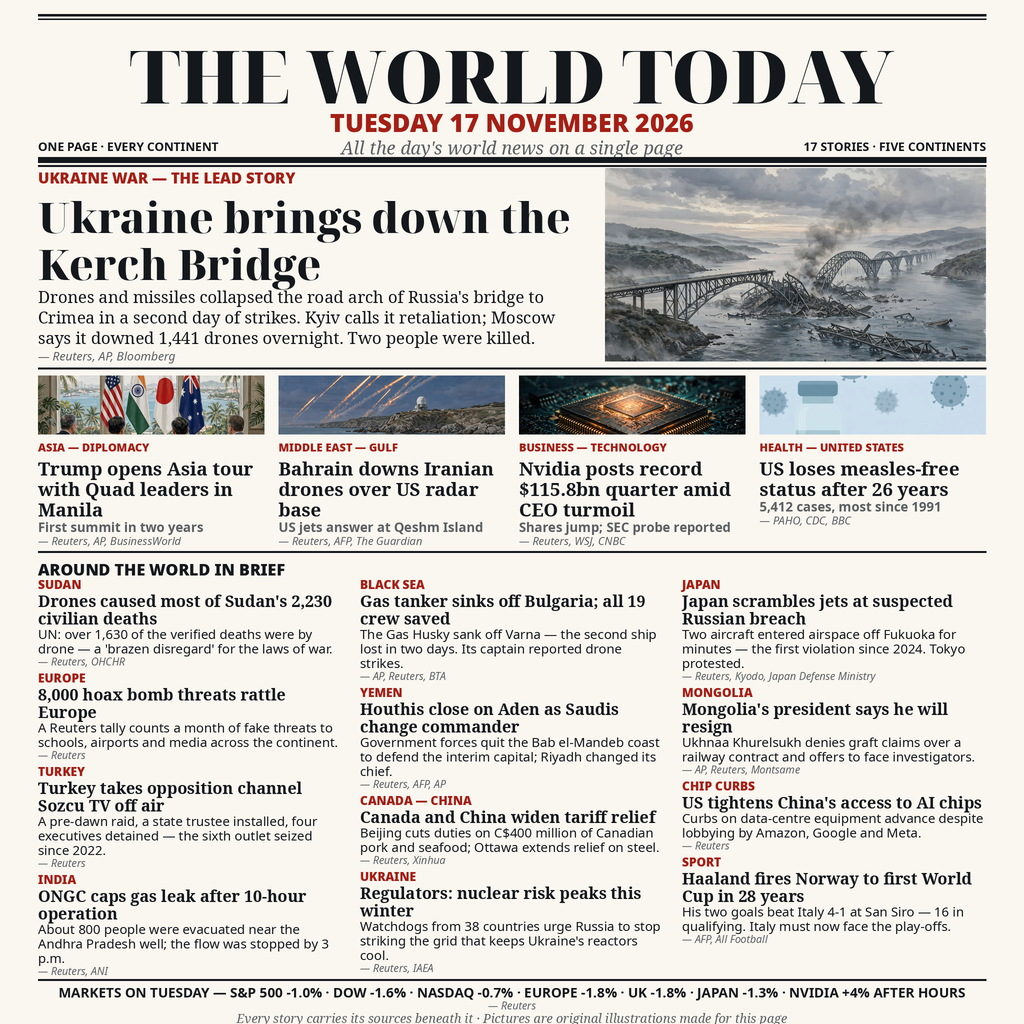
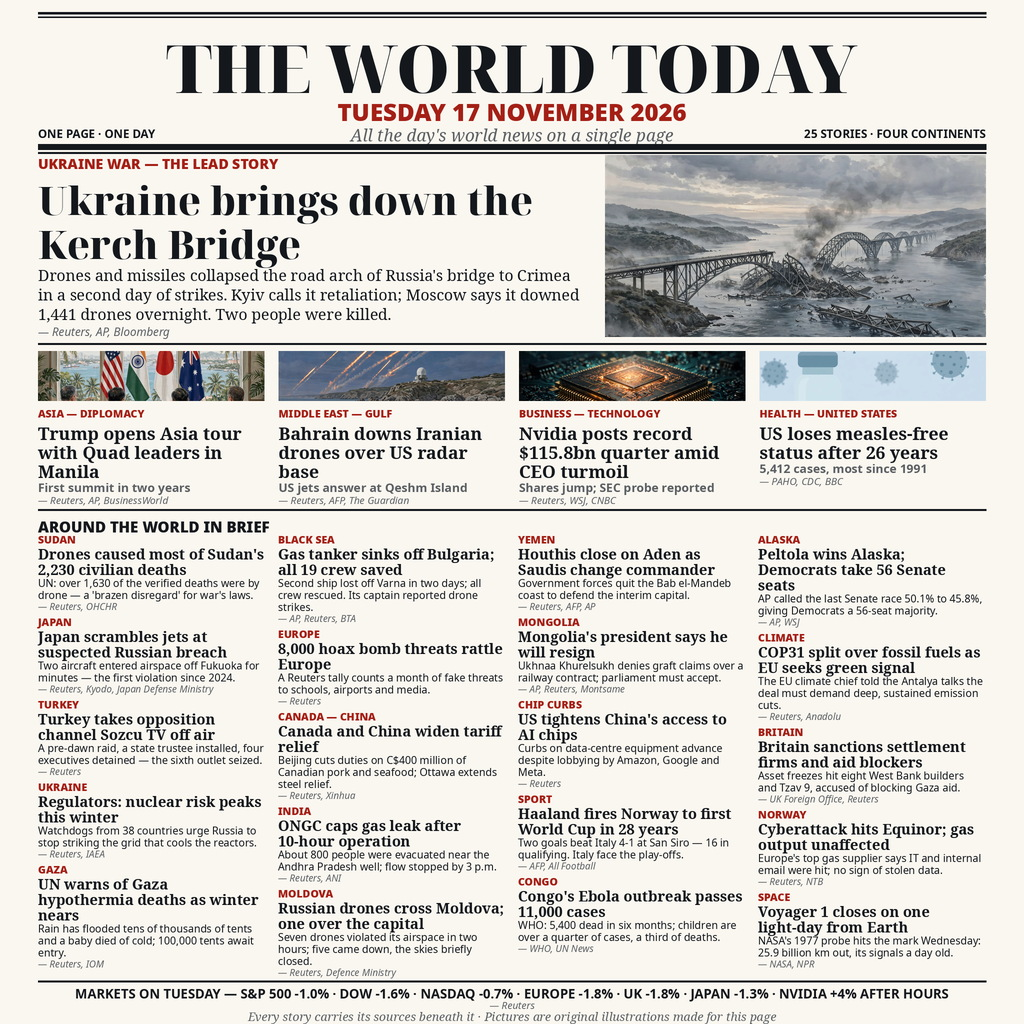
Denser edition: 25 stories — add Alaska Senate, COP31, Gaza shelter, Moldova drones, Congo Ebola, UK sanctions, Equinor, Voyager 1 briefs

diff --git a/SOURCES.md b/SOURCES.md
@@ -164,6 +164,87 @@ labelled as claims on the page, or left off it.
       to qualify for their first World Cup since 1998; he finished qualifying
       with 16 goals. Italy must go through the play-offs.
 
+## Added in the denser edition (25 stories)
+
+19. **Alaska: Peltola wins the last Senate race**
+    - Sources: Associated Press (race called Nov 17); Wall Street Journal
+      (Nov 17).
+    - Facts: The AP called Alaska's Senate race for Democrat Mary Peltola
+      over two-term Republican incumbent Dan Sullivan, 50.1% to 45.8% with
+      99% counted — the last Senate contest of the midterms to be resolved
+      and the ninth seat Democrats flipped, giving them a 56-seat Senate
+      majority. Peltola is the first Alaska Native elected to the US Senate.
+
+20. **COP31 in Antalya split over fossil fuels**
+    - Sources: Reuters (Antalya, Nov 17); Anadolu Agency (Nov 17).
+    - Facts: EU climate commissioner Wopke Hoekstra told the COP31 talks in
+      Antalya, Türkiye, that the deal must send the "strongest possible
+      signal" on the clean-energy transition and on immediate, deep and
+      sustained emission cuts. A draft deal issued by the Turkish and
+      Australian presidencies carries two rival fossil-fuel wordings —
+      "transitioning away" from 2023 and a stronger "phase out". The talks
+      are due to close on Friday (Nov 20).
+
+21. **UN warns of Gaza hypothermia deaths as winter nears**
+    - Sources: Reuters (Geneva, Nov 17); IOM and WFP joint statement
+      (Nov 17).
+    - Facts: The UN migration agency (IOM) warned of further deaths from
+      hypothermia in Gaza without more funding and shelter supplies. Heavy
+      rain has flooded tens of thousands of tents housing displaced people;
+      a 9-month-old baby died of suspected hypothermia the previous week.
+      Some 100,000 tents were waiting to enter Gaza, and IOM reported a
+      $173 million shortfall for its winter shelter programmes.
+
+22. **Russian drones cross Moldova; one over the capital**
+    - Sources: Reuters (Chisinau, Nov 17); Moldova Defence Ministry
+      (Nov 17).
+    - Facts: Seven drones violated Moldovan airspace over about two and a
+      half hours on Nov 17 during a large Russian attack on Ukraine; one
+      flew over the capital Chisinau and five came down near populated
+      areas. Moldova briefly closed its airspace. President Maia Sandu
+      pledged to press for further sanctions against Moscow; Russia denies
+      the drones were Russian.
+
+23. **Congo's Ebola outbreak passes 11,000 cases**
+    - Sources: WHO Director-General's Emergency Committee remarks (Nov 17);
+      UN News (Nov 17); Reuters analysis (Nov 17).
+    - Facts: The Bundibugyo-virus Ebola outbreak in DR Congo has more than
+      doubled in three months to over 11,000 cases and 5,400 deaths across
+      67 health zones in eight provinces, six months after it was declared.
+      Children account for more than a quarter of confirmed cases and a
+      third of deaths. Between 400 and 500 new cases are still reported
+      each week, and two-thirds of confirmed deaths occur outside treatment
+      centres.
+
+24. **Britain sanctions settlement firms and aid blockers**
+    - Sources: UK Foreign Office announcement (gov.uk, Nov 17); Reuters
+      (Nov 17).
+    - Facts: Britain imposed asset freezes and director disqualifications
+      on eight construction and property development firms involved in
+      building Israeli settlements in the occupied West Bank, and
+      sanctioned Tzav 9, an activist movement accused of blocking
+      humanitarian aid convoys entering Gaza — the first sanctions package
+      since the UK's September reset of its approach.
+
+25. **Cyberattack hits Equinor; gas output unaffected**
+    - Sources: Reuters (Oslo, Nov 17); NTB (Norwegian News Agency, Nov 17).
+    - Facts: Equinor, Europe's largest gas supplier, said it had detected
+      an ongoing cyberattack against some of its IT systems and had taken
+      steps to neutralise it; its internal email system was down. There
+      was no indication data had been stolen, and operations and
+      production were unaffected. Norway's National Security Authority
+      said it was aware of the incident.
+
+26. **Voyager 1 closes on one light-day from Earth**
+    - Sources: NASA / Jet Propulsion Laboratory (milestone reported
+      Nov 17); NPR (Nov 17).
+    - Facts: NASA's Voyager 1 probe, launched in 1977, was reported on
+      Nov 17 to reach a distance of one light-day from Earth on Wednesday
+      Nov 18 — about 25.9 billion kilometres, more than four times the
+      distance from the Sun to Pluto — the first human-made object to get
+      that far. From then on its radio signals take a full 24 hours to
+      reach Earth.
+
 ## Deliberately excluded (single-source or unconfirmed)
 
 - Robert Pattinson named as next James Bond — one entertainment source only.

diff --git a/README.md b/README.md
@@ -9,11 +9,14 @@ world news in one image") — bounty page: https://make.fun/bounty/news-image-20
 
 ![The World Today front page](entry.png)
 
-One front page, 17 stories: Ukraine's destruction of the Kerch Bridge as the
+One front page, 25 stories: Ukraine's destruction of the Kerch Bridge as the
 lead, the Quad summit in Manila, Bahrain's interception of Iranian drones,
 Nvidia's record quarter, the US losing measles-elimination status, a sunken
-gas tanker in the Black Sea, and twelve world briefs — plus the day's market
-moves in the footer.
+gas tanker in the Black Sea, and twenty world briefs — among them Congo's
+Ebola outbreak passing 11,000 cases, the COP31 fossil-fuel split in Antalya,
+Russian drones over Moldova's capital, Britain's settlement sanctions and
+Voyager 1 closing on one light-day from Earth — plus the day's market moves
+in the footer.
 
 ## How it was made
 
